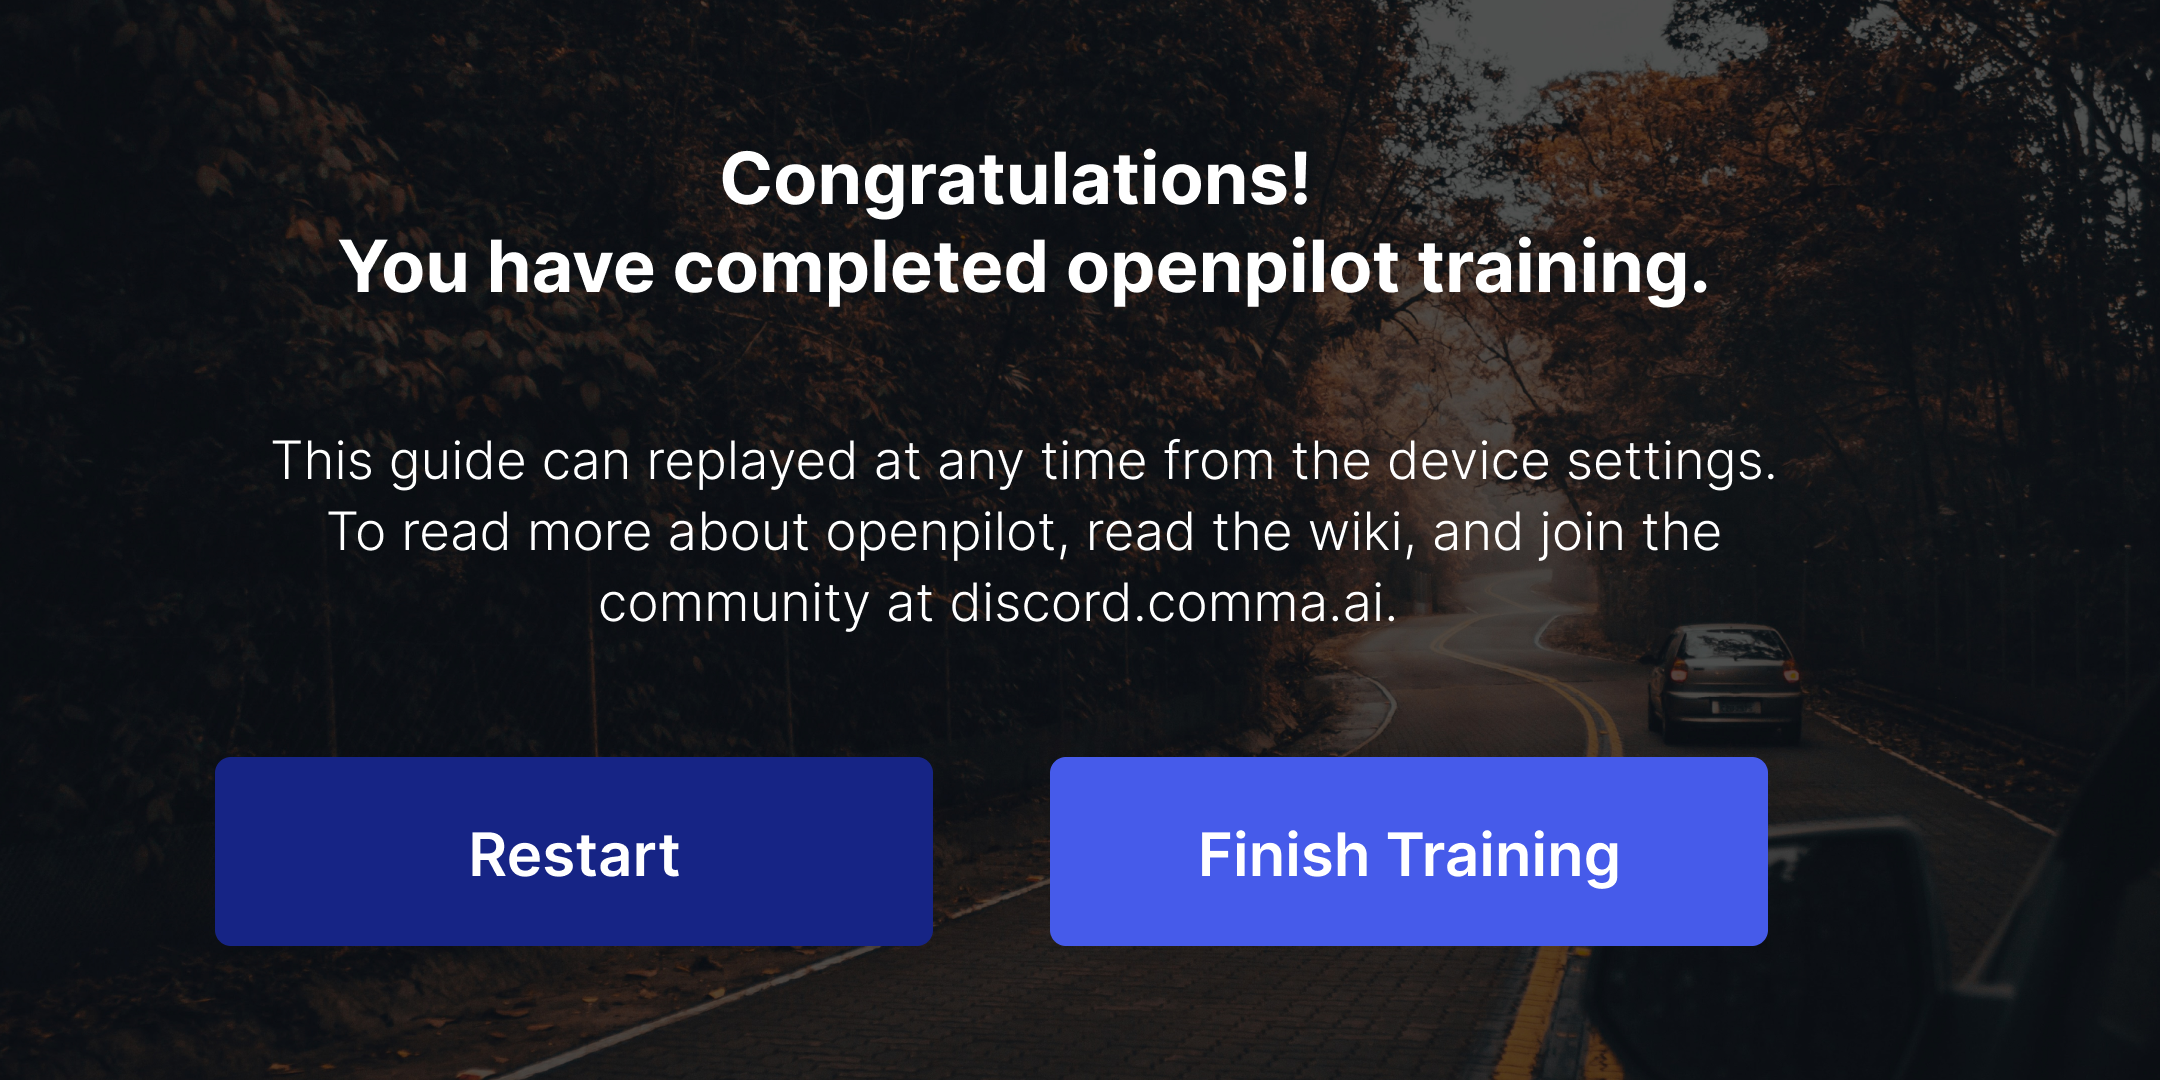
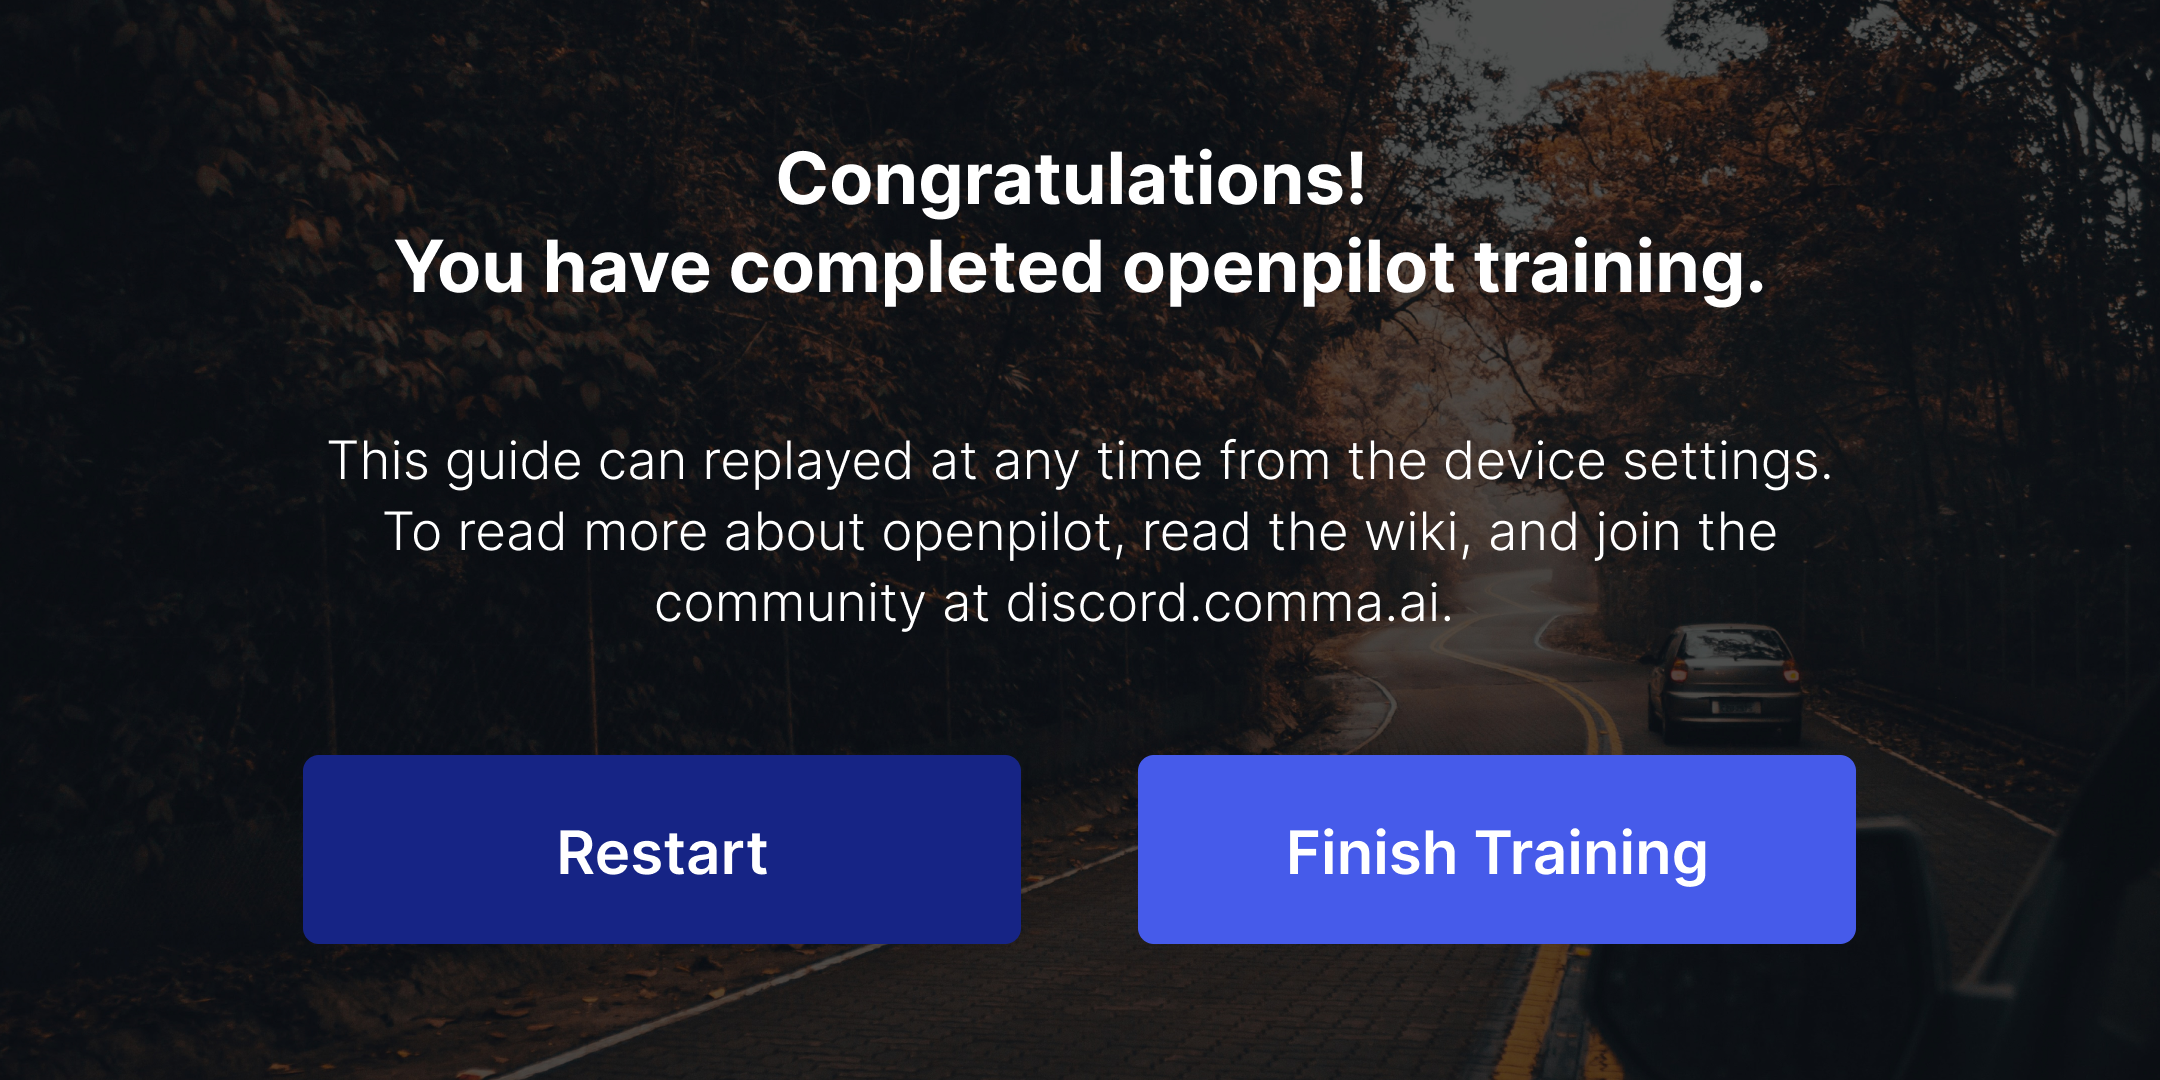
fixup some images

diff --git a/selfdrive/ui/qt/offroad/onboarding.cc b/selfdrive/ui/qt/offroad/onboarding.cc
@@ -10,11 +10,9 @@
 #include "selfdrive/ui/qt/widgets/input.h"
 
 void TrainingGuide::mouseReleaseEvent(QMouseEvent *e) {
-  QPoint touch = QPoint(e->x(), e->y()) - imageCorner;
-  
-  if (boundingRect[currentIndex].contains(touch)) {
+  if (boundingRect[currentIndex].contains(e->x(), e->y())) {
     currentIndex += 1;
-  } else if (currentIndex == (boundingRect.size() - 2) && boundingRect.last().contains(touch)) {
+  } else if (currentIndex == (boundingRect.size() - 2) && boundingRect.last().contains(e->x(), e->y())) {
     currentIndex = 0;
   }
 

diff --git a/selfdrive/ui/qt/offroad/onboarding.h b/selfdrive/ui/qt/offroad/onboarding.h
@@ -90,8 +90,8 @@ private:
     QRect(1385, 490, 750, 270),
     continueBtnWide,
     continueBtnWide,
-    QRect(1050, 757, 718, 189),
-    QRect(215, 757, 718, 189),
+    QRect(1138, 755, 718, 189),
+    QRect(303, 755, 718, 189),
   };
 
   const QString IMG_PATH = vwp_w == 2160 ? "../assets/training_wide/" : "../assets/training/";
